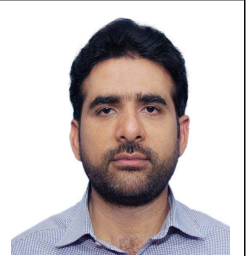
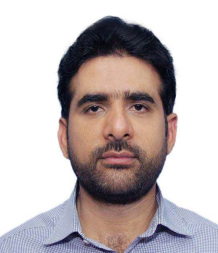
fixed all images of team
fixed all images of team

diff --git a/app/about/structure/page.tsx b/app/about/structure/page.tsx
@@ -93,15 +93,15 @@ function TeamBlock({ id, title, description, members }: TeamBlockProps) {
               href={m.slug ? `/team/${m.slug}` : "#"}
               className="block focus:outline-none focus-visible:ring-2 focus-visible:ring-brand-500/60 rounded-2xl"
             >
-              <article className="relative h-72 rounded-2xl overflow-hidden ring-1 ring-neutral-200/70 bg-white shadow-sm transition-all duration-500 hover:shadow-xl">
+              <article className="relative h-96 w-86 rounded-2xl overflow-hidden ring-1 ring-neutral-200/70 bg-transparent shadow-lg transition-all duration-500 hover:shadow-xl">
                 {/* Image fills the card */}
                 {m.headshot ? (
                   <Image
                     src={m.headshot}
                     alt={m.name}
                     fill
-                    className="object-cover"
-                    sizes="(max-width: 768px) 100vw, 33vw"
+                    className="object-fit"
+                    sizes="(max-width: 768px) 100vw, 33vw"  
                   />
                 ) : (
                   <div className="absolute inset-0 flex items-center justify-center text-neutral-400 text-lg font-bold bg-neutral-100">
